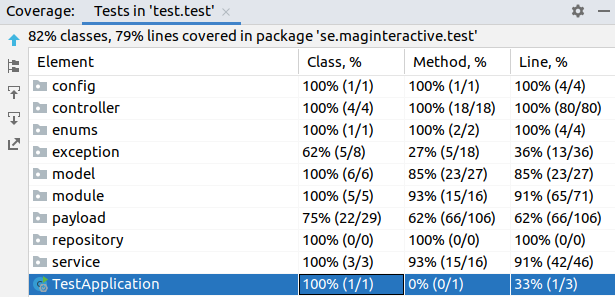
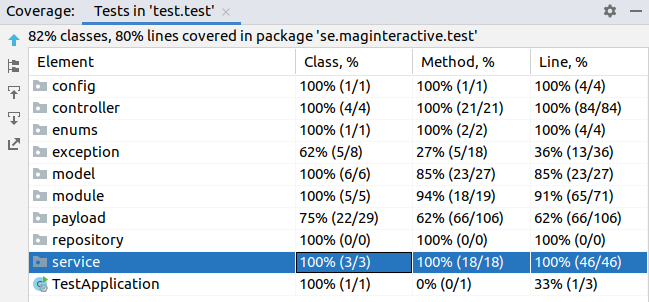
RequiredArgsConstructor added and fix tests

diff --git a/src/test/java/se/maginteractive/test/service/impl/AccountServiceTest.java b/src/test/java/se/maginteractive/test/service/impl/AccountServiceTest.java
@@ -45,25 +45,6 @@ class AccountServiceTest {
     @InjectMocks
     private AccountServiceImpl service;
 
-    @DisplayName("Account Create")
-    @Test
-    void create() {
-        //given
-        Account account = Account.builder()
-                .id(1L)
-                .balance(ZERO)
-                .build();
-        given(accountRepository.save(any(Account.class))).willReturn(account);
-
-        //when
-        Account savedAccount = service.create();
-
-        //then
-        then(accountRepository).should().save(any(Account.class));
-        assertThat(savedAccount).isNotNull();
-        assertThat(savedAccount.getBalance()).isEqualByComparingTo(ZERO);
-    }
-
     @DisplayName("Account Find By Id")
     @Test
     void findById() {
@@ -95,6 +76,41 @@ class AccountServiceTest {
         //then
         then(accountRepository).should().findById(anyLong());
         assertThat(foundAccount).isNotPresent();
+    }
+
+    @DisplayName("Account Create")
+    @Test
+    void create() {
+        //given
+        Account account = Account.builder()
+                .id(1L)
+                .balance(ZERO)
+                .build();
+        given(accountRepository.save(any(Account.class))).willReturn(account);
+
+        //when
+        Account savedAccount = service.create();
+
+        //then
+        then(accountRepository).should().save(any(Account.class));
+        assertThat(savedAccount).isNotNull();
+        assertThat(savedAccount.getBalance()).isEqualByComparingTo(ZERO);
+    }
+
+    @DisplayName("Product Update")
+    @Test
+    void update() {
+        //given
+        Account account = new Account();
+        given(accountRepository.findById(anyLong())).willReturn(Optional.of(account));
+        given(accountRepository.save(any(Account.class))).willReturn(account);
+
+        //when
+        Account savedProduct = service.update(anyLong(), account);
+
+        //then
+        then(accountRepository).should().save(any(Account.class));
+        assertThat(savedProduct).isNotNull();
     }
 
     @DisplayName("Deposit Success")
@@ -238,5 +254,49 @@ class AccountServiceTest {
 
         //then
         assertEquals("Account not found!", exception.getMessage());
+    }
+
+    @Test
+    void addTransaction() {
+        //given
+        Account account = Account.builder()
+                .id(1L)
+                .balance(BigDecimal.valueOf(1000))
+                .build();
+
+        Transaction transaction = Transaction.builder()
+                .account(account)
+                .amount(BigDecimal.valueOf(100))
+                .type(WITHDRAW)
+                .date(ZonedDateTime.now())
+                .build();
+
+        Transaction transactionResult = Transaction.builder()
+                .account(Account.builder()
+                        .id(1L)
+                        .balance(BigDecimal.valueOf(900))
+                        .build())
+                .amount(BigDecimal.valueOf(100))
+                .type(WITHDRAW)
+                .date(ZonedDateTime.now())
+                .build();
+
+
+        TransactionProcessorDto transactionProcessorDto = TransactionProcessorDto.builder()
+                .account(account)
+                .amount(transaction.getAmount())
+                .build();
+
+        given(accountRepository.findById(anyLong())).willReturn(Optional.of(account));
+        given(transactionProcessorFactory.getTransaction(WITHDRAW)).willReturn(withdrawProcessorBean);
+        given(withdrawProcessorBean.apply(transactionProcessorDto)).willReturn(transactionResult);
+
+        //when
+        Account savedAccount = service.addTransaction(transaction);
+
+        //then
+        then(accountRepository).should().findById(anyLong());
+        assertThat(savedAccount).isNotNull();
+        assertThat(savedAccount.getBalance()).isEqualByComparingTo(BigDecimal.valueOf(900));
     }
 }

diff --git a/src/main/java/se/maginteractive/test/module/transaction/impl/WithdrawProcessor.java b/src/main/java/se/maginteractive/test/module/transaction/impl/WithdrawProcessor.java
@@ -1,6 +1,6 @@
 package se.maginteractive.test.module.transaction.impl;
 
-import org.springframework.beans.factory.annotation.Autowired;
+import lombok.RequiredArgsConstructor;
 import org.springframework.stereotype.Component;
 import org.springframework.transaction.annotation.Transactional;
 import se.maginteractive.test.enums.TransactionType;
@@ -16,9 +16,10 @@ import java.time.ZonedDateTime;
 import static se.maginteractive.test.enums.TransactionType.WITHDRAW;
 
 @Component
+@RequiredArgsConstructor
 public class WithdrawProcessor implements TransactionProcessor {
-    @Autowired
-    private TransactionService transactionService;
+
+    private final TransactionService transactionService;
 
     @Transactional
     @Override
@@ -38,14 +39,13 @@ public class WithdrawProcessor implements TransactionProcessor {
         return transaction;
     }
 
-    private void validate(TransactionProcessorDto transactionProcessorDto){
+    private void validate(TransactionProcessorDto transactionProcessorDto) {
         Account account = transactionProcessorDto.getAccount();
         BigDecimal newBalance = account.getBalance().subtract(transactionProcessorDto.getAmount());
 
         validateSmallAmount(transactionProcessorDto.getAmount());
         validateInsufficientBalance(newBalance, account.getBalance(), transactionProcessorDto.getAmount());
     }
-
 
 
     @Override

diff --git a/src/main/java/se/maginteractive/test/service/impl/TransactionServiceImpl.java b/src/main/java/se/maginteractive/test/service/impl/TransactionServiceImpl.java
@@ -1,6 +1,6 @@
 package se.maginteractive.test.service.impl;
 
-import org.springframework.beans.factory.annotation.Autowired;
+import lombok.RequiredArgsConstructor;
 import org.springframework.stereotype.Service;
 import org.springframework.transaction.annotation.Transactional;
 import se.maginteractive.test.exception.AccountNotFountException;
@@ -21,19 +21,13 @@ import java.util.Optional;
 import static se.maginteractive.test.enums.TransactionType.PURCHASE;
 
 @Service
+@RequiredArgsConstructor
 public class TransactionServiceImpl implements TransactionService {
 
-    @Autowired
-    private TransactionRepository transactionRepository;
-
-    @Autowired
-    private AccountService accountService;
-
-    @Autowired
-    private ProductService productService;
-
-    @Autowired
-    private TransactionProcessorFactory transactionProcessorFactory;
+    private final TransactionRepository transactionRepository;
+    private final AccountService accountService;
+    private final ProductService productService;
+    private final TransactionProcessorFactory transactionProcessorFactory;
 
     @Transactional(readOnly = true)
     @Override

diff --git a/src/main/java/se/maginteractive/test/service/impl/ProductServiceImpl.java b/src/main/java/se/maginteractive/test/service/impl/ProductServiceImpl.java
@@ -1,21 +1,21 @@
 package se.maginteractive.test.service.impl;
 
-import org.springframework.beans.factory.annotation.Autowired;
+import lombok.RequiredArgsConstructor;
 import org.springframework.stereotype.Service;
 import org.springframework.transaction.annotation.Transactional;
+import se.maginteractive.test.exception.ResourceNotFoundException;
 import se.maginteractive.test.model.Product;
 import se.maginteractive.test.repository.ProductRepository;
 import se.maginteractive.test.service.ProductService;
-import se.maginteractive.test.exception.ResourceNotFoundException;
 
 import java.util.List;
 import java.util.Optional;
 
 @Service
+@RequiredArgsConstructor
 public class ProductServiceImpl implements ProductService {
 
-    @Autowired
-    private ProductRepository productRepository;
+    private final ProductRepository productRepository;
 
     @Transactional(readOnly = true)
     @Override

diff --git a/src/main/java/se/maginteractive/test/module/transaction/impl/PurchaseProcessor.java b/src/main/java/se/maginteractive/test/module/transaction/impl/PurchaseProcessor.java
@@ -1,6 +1,6 @@
 package se.maginteractive.test.module.transaction.impl;
 
-import org.springframework.beans.factory.annotation.Autowired;
+import lombok.RequiredArgsConstructor;
 import org.springframework.stereotype.Component;
 import org.springframework.transaction.annotation.Transactional;
 import se.maginteractive.test.enums.TransactionType;
@@ -17,10 +17,10 @@ import java.time.ZonedDateTime;
 import static se.maginteractive.test.enums.TransactionType.PURCHASE;
 
 @Component
+@RequiredArgsConstructor
 public class PurchaseProcessor implements TransactionProcessor {
 
-    @Autowired
-    private TransactionService transactionService;
+    private final TransactionService transactionService;
 
     @Transactional
     @Override

diff --git a/src/main/java/se/maginteractive/test/module/transaction/impl/DepositProcessor.java b/src/main/java/se/maginteractive/test/module/transaction/impl/DepositProcessor.java
@@ -1,6 +1,6 @@
 package se.maginteractive.test.module.transaction.impl;
 
-import org.springframework.beans.factory.annotation.Autowired;
+import lombok.RequiredArgsConstructor;
 import org.springframework.stereotype.Component;
 import org.springframework.transaction.annotation.Transactional;
 import se.maginteractive.test.enums.TransactionType;
@@ -15,10 +15,10 @@ import java.time.ZonedDateTime;
 import static se.maginteractive.test.enums.TransactionType.DEPOSIT;
 
 @Component
+@RequiredArgsConstructor
 public class DepositProcessor implements TransactionProcessor {
 
-    @Autowired
-    private TransactionService transactionService;
+    private final TransactionService transactionService;
 
     @Transactional
     @Override

diff --git a/src/test/java/se/maginteractive/test/module/transaction/impl/DepositProcessorTest.java b/src/test/java/se/maginteractive/test/module/transaction/impl/DepositProcessorTest.java
@@ -34,14 +34,12 @@ class DepositProcessorTest {
     @InjectMocks
     private DepositProcessor service;
 
-    TransactionProcessorDto transactionProcessorDto;
-    private Account account;
+    private TransactionProcessorDto transactionProcessorDto;
 
     @BeforeEach
     void setUp() {
-        account = Account.builder().id(1L).balance(BigDecimal.valueOf(1000)).build();
         transactionProcessorDto = TransactionProcessorDto.builder()
-                .account(account)
+                .account(Account.builder().id(1L).balance(BigDecimal.valueOf(1000)).build())
                 .amount(BigDecimal.valueOf(300))
                 .build();
     }

diff --git a/src/test/java/se/maginteractive/test/controller/accounts/AccountControllerTest.java b/src/test/java/se/maginteractive/test/controller/accounts/AccountControllerTest.java
@@ -36,20 +36,20 @@ import static org.springframework.test.web.servlet.result.MockMvcResultMatchers.
 class AccountControllerTest {
 
     @Mock
-    AccountService accountService;
+    private AccountService accountService;
 
     @Mock
-    TransactionService transactionService;
+    private TransactionService transactionService;
 
     @Mock
     private ModelMapper modelMapper;
 
     @InjectMocks
-    AccountControllerImpl controller;
+    private AccountControllerImpl controller;
 
     private static final ObjectMapper om = new ObjectMapper();
 
-    MockMvc mockMvc;
+    private MockMvc mockMvc;
 
     @BeforeEach
     void setUp() {

diff --git a/src/test/java/se/maginteractive/test/controller/products/ProductControllerTest.java b/src/test/java/se/maginteractive/test/controller/products/ProductControllerTest.java
@@ -34,17 +34,17 @@ import static org.springframework.test.web.servlet.result.MockMvcResultMatchers.
 class ProductControllerTest {
 
     @Mock
-    ProductService productService;
+    private ProductService productService;
 
     @Mock
-    ModelMapper modelMapper;
+    private ModelMapper modelMapper;
 
     @InjectMocks
-    ProductControllerImpl controller;
+    private ProductControllerImpl controller;
 
     private static final ObjectMapper om = new ObjectMapper();
 
-    MockMvc mockMvc;
+    private MockMvc mockMvc;
 
     @BeforeEach
     void setUp() {

diff --git a/src/main/java/se/maginteractive/test/module/transaction/TransactionValidator.java b/src/main/java/se/maginteractive/test/module/transaction/TransactionValidator.java
@@ -7,6 +7,7 @@ import se.maginteractive.test.exception.SmallAmountException;
 import se.maginteractive.test.model.Product;
 
 import java.math.BigDecimal;
+import java.util.function.IntPredicate;
 import java.util.function.Predicate;
 
 import static java.math.BigDecimal.ZERO;
@@ -41,7 +42,7 @@ public interface TransactionValidator {
         }
     }
 
-    Predicate<Integer> smallCount = a -> (a < 1 );
+    IntPredicate smallCount = a -> (a < 1 );
 
     Predicate<BigDecimal> smallAmount = a -> (ZERO.compareTo(a) > -1);
 

diff --git a/src/main/java/se/maginteractive/test/service/impl/AccountServiceImpl.java b/src/main/java/se/maginteractive/test/service/impl/AccountServiceImpl.java
@@ -59,7 +59,7 @@ public class AccountServiceImpl implements AccountService {
         return addTransaction(transaction);
     }
 
-    private Account addTransaction(Transaction transaction) {
+    protected Account addTransaction(Transaction transaction) {
         Account account = accountRepository.findById(transaction.getAccount().getId())
                 .orElseThrow(AccountNotFountException::new);
 

diff --git a/src/test/java/se/maginteractive/test/module/transaction/impl/PurchaseProcessorTest.java b/src/test/java/se/maginteractive/test/module/transaction/impl/PurchaseProcessorTest.java
@@ -67,7 +67,7 @@ class PurchaseProcessorTest {
         assertThat(product.getCount()).isEqualByComparingTo(199);
     }
 
-    @DisplayName("Purchase Not Enough Stok Exception")
+    @DisplayName("Purchase Not Enough Stock Exception")
     @Test
     void purchase_not_enough_stock_exception() {
         //given
